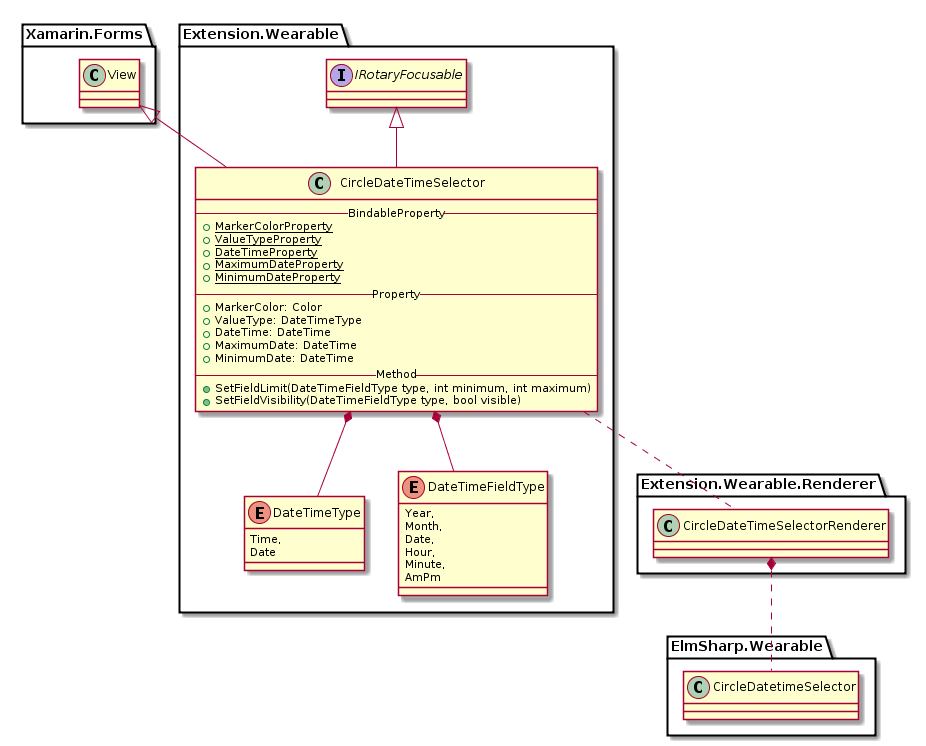
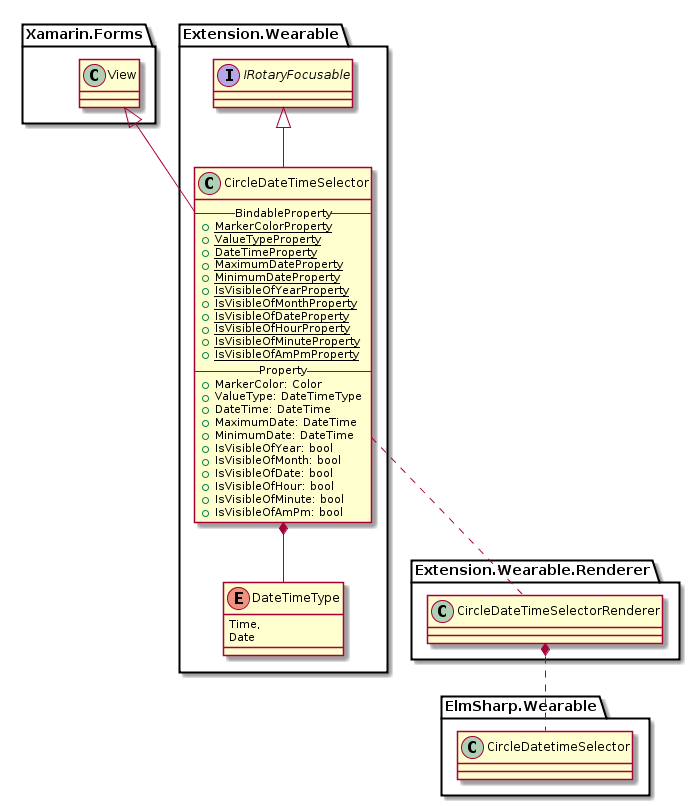
[CircleDateTimeSelector] add SetFieldVisibility() and remove SetFieldLimit() (#72)

diff --git a/WearableUIGallery/WearableUIGallery/WearableUIGallery/TC/TCCirclePage.xaml b/WearableUIGallery/WearableUIGallery/WearableUIGallery/TC/TCCirclePage.xaml
@@ -17,7 +17,8 @@
             VerticalOptions="FillAndExpand">
             <w:CircleDateTimeSelector
                 x:Name="DateSelector"
-                MaximumDate="1/1/2018"
+                IsVisibleOfDate="False"
+                MaximumDate="1/1/2020"
                 MinimumDate="1/12/2015"
                 ValueType="Date" />
         </StackLayout>

diff --git a/WearableUIGallery/WearableUIGallery/WearableUIGallery/TC/TCCircleStepper2.xaml b/WearableUIGallery/WearableUIGallery/WearableUIGallery/TC/TCCircleStepper2.xaml
@@ -30,7 +30,6 @@
             <Label
                 AbsoluteLayout.LayoutBounds="0.8, 0.5, 0.25, 0.25"
                 AbsoluteLayout.LayoutFlags="All"
-                BackgroundColor="White"
                 HorizontalOptions="End"
                 Text="T3"
                 TextColor="Black" />

diff --git a/Xamarin.Forms.CircularUI.Tizen/CircleDateTimeSelectorRenderer.cs b/Xamarin.Forms.CircularUI.Tizen/CircleDateTimeSelectorRenderer.cs
@@ -6,13 +6,15 @@ using System.Text;
 using Xamarin.Forms.CircularUI;
 using Xamarin.Forms.Platform.Tizen;
 using ElmSharp;
+using EDateTimeFieldType = ElmSharp.DateTimeFieldType;
+using ECircleDateTimeSelector = ElmSharp.Wearable.CircleDateTimeSelector;
 
 [assembly: ExportRenderer(typeof(Xamarin.Forms.CircularUI.CircleDateTimeSelector), typeof(Xamarin.Forms.CircularUI.Tizen.CircleDateTimeSelectorRenderer))]
 
 
 namespace Xamarin.Forms.CircularUI.Tizen
 {
-    public class CircleDateTimeSelectorRenderer : ViewRenderer<CircleDateTimeSelector, ElmSharp.Wearable.CircleDateTimeSelector>
+    public class CircleDateTimeSelectorRenderer : ViewRenderer<CircleDateTimeSelector, ECircleDateTimeSelector>
     {
         public CircleDateTimeSelectorRenderer()
         {
@@ -21,6 +23,13 @@ namespace Xamarin.Forms.CircularUI.Tizen
             RegisterPropertyHandler(CircleDateTimeSelector.DateTimeProperty, UpdateDateTime);
             RegisterPropertyHandler(CircleDateTimeSelector.MaximumDateProperty, UpdateMaximum);
             RegisterPropertyHandler(CircleDateTimeSelector.MinimumDateProperty, UpdateMinimum);
+
+            RegisterPropertyHandler(CircleDateTimeSelector.IsVisibleOfYearProperty, UpdateFieldVisibilityOfYear);
+            RegisterPropertyHandler(CircleDateTimeSelector.IsVisibleOfMonthProperty, UpdateFieldVisibilityOfMonth);
+            RegisterPropertyHandler(CircleDateTimeSelector.IsVisibleOfDateProperty, UpdateFieldVisibilityOfDate);
+            RegisterPropertyHandler(CircleDateTimeSelector.IsVisibleOfHourProperty, UpdateFieldVisibilityOfHour);
+            RegisterPropertyHandler(CircleDateTimeSelector.IsVisibleOfMinuteProperty, UpdateFieldVisibilityOfMinute);
+            RegisterPropertyHandler(CircleDateTimeSelector.IsVisibleOfAmPmProperty, UpdateFieldVisibilityOfAmPm);
         }
 
         protected override void OnElementChanged(ElementChangedEventArgs<CircleDateTimeSelector> e)
@@ -30,7 +39,7 @@ namespace Xamarin.Forms.CircularUI.Tizen
                 var surface = this.GetSurface();
                 if (null != surface)
                 {
-                    SetNativeControl(new ElmSharp.Wearable.CircleDateTimeSelector(Xamarin.Forms.Platform.Tizen.Forms.NativeParent, surface));
+                    SetNativeControl(new ECircleDateTimeSelector(Xamarin.Forms.Platform.Tizen.Forms.NativeParent, surface));
                     Control.DateTimeChanged += OnDateTimeChanged;
                 }
                 else
@@ -51,7 +60,7 @@ namespace Xamarin.Forms.CircularUI.Tizen
             return new ElmSharp.Size(300, 290);
         }
 
-        void UpdateMinimum(bool initialize)
+        void UpdateMinimum()
         {
             if (null != Control && null != Element)
             {
@@ -59,7 +68,7 @@ namespace Xamarin.Forms.CircularUI.Tizen
             }
         }
 
-        void UpdateMaximum(bool initialize)
+        void UpdateMaximum()
         {
             if (null != Control && null != Element)
             {
@@ -67,7 +76,7 @@ namespace Xamarin.Forms.CircularUI.Tizen
             }
         }
 
-        void UpdateDateTime(bool initialize)
+        void UpdateDateTime()
         {
             if (null != Control && null != Element && Element.DateTime != Control.DateTime)
             {
@@ -75,7 +84,7 @@ namespace Xamarin.Forms.CircularUI.Tizen
             }
         }
 
-        void UpdateValueType(bool initializej)
+        void UpdateValueType()
         {
             if (null != Control && null != Element)
             {
@@ -91,7 +100,7 @@ namespace Xamarin.Forms.CircularUI.Tizen
             }
         }
 
-        void UpdateMarkerColor(bool initialize)
+        void UpdateMarkerColor()
         {
             if (null != Control && null != Element && Element.MarkerColor != Color.Default)
             {
@@ -104,6 +113,54 @@ namespace Xamarin.Forms.CircularUI.Tizen
             if (null != Control && null != Element)
             {
                 Element.DateTime = Control.DateTime;
+            }
+        }
+
+        void UpdateFieldVisibilityOfYear()
+        {
+            if (null != Control && null != Element)
+            {
+                Control.SetFieldVisible(EDateTimeFieldType.Year, Element.IsVisibleOfYear);
+            }
+        }
+
+        void UpdateFieldVisibilityOfMonth()
+        {
+            if (null != Control && null != Element)
+            {
+                Control.SetFieldVisible(EDateTimeFieldType.Month, Element.IsVisibleOfMonth);
+            }
+        }
+
+        void UpdateFieldVisibilityOfDate()
+        {
+            if (null != Control && null != Element)
+            {
+                Control.SetFieldVisible(EDateTimeFieldType.Date, Element.IsVisibleOfDate);
+            }
+        }
+
+        void UpdateFieldVisibilityOfHour()
+        {
+            if (null != Control && null != Element)
+            {
+                Control.SetFieldVisible(EDateTimeFieldType.Hour, Element.IsVisibleOfHour);
+            }
+        }
+
+        void UpdateFieldVisibilityOfMinute()
+        {
+            if (null != Control && null != Element)
+            {
+                Control.SetFieldVisible(EDateTimeFieldType.Minute, Element.IsVisibleOfMinute);
+            }
+        }
+
+        void UpdateFieldVisibilityOfAmPm()
+        {
+            if (null != Control && null != Element)
+            {
+                Control.SetFieldVisible(EDateTimeFieldType.AmPm, Element.IsVisibleOfAmPm);
             }
         }
     }

diff --git a/Xamarin.Forms.CircularUI/CircleDateTimeSelector.cs b/Xamarin.Forms.CircularUI/CircleDateTimeSelector.cs
@@ -37,6 +37,37 @@ namespace Xamarin.Forms.CircularUI
         public static readonly BindableProperty MinimumDateProperty = BindableProperty.Create(nameof(MinimumDate), typeof(DateTime), typeof(CircleDateTimeSelector), new DateTime(1900, 1, 1));
 
         /// <summary>
+        /// BindableProperty. Identifies the IsVisibleOfYear bindable property.
+        /// </summary>
+        /// <since_tizen> 4 </since_tizen>
+        public static BindableProperty IsVisibleOfYearProperty = BindableProperty.Create(nameof(IsVisibleOfYear), typeof(bool), typeof(CircleDateTimeSelector), true);
+        /// <summary>
+        /// BindableProperty. Identifies the IsVisibleOfMonth bindable property.
+        /// </summary>
+        /// <since_tizen> 4 </since_tizen>
+        public static BindableProperty IsVisibleOfMonthProperty = BindableProperty.Create(nameof(IsVisibleOfMonth), typeof(bool), typeof(CircleDateTimeSelector), true);
+        /// <summary>
+        /// BindableProperty. Identifies the IsVisibleOfDate bindable property.
+        /// </summary>
+        /// <since_tizen> 4 </since_tizen>
+        public static BindableProperty IsVisibleOfDateProperty = BindableProperty.Create(nameof(IsVisibleOfDate), typeof(bool), typeof(CircleDateTimeSelector), true);
+        /// <summary>
+        /// BindableProperty. Identifies the IsVisibleOfHour bindable property.
+        /// </summary>
+        /// <since_tizen> 4 </since_tizen>
+        public static BindableProperty IsVisibleOfHourProperty = BindableProperty.Create(nameof(IsVisibleOfHour), typeof(bool), typeof(CircleDateTimeSelector), true);
+        /// <summary>
+        /// BindableProperty. Identifies the IsVisibleOfMinute bindable property.
+        /// </summary>
+        /// <since_tizen> 4 </since_tizen>
+        public static BindableProperty IsVisibleOfMinuteProperty = BindableProperty.Create(nameof(IsVisibleOfMinute), typeof(bool), typeof(CircleDateTimeSelector), true);
+        /// <summary>
+        /// BindableProperty. Identifies the IsVisibleOfAmPm bindable property.
+        /// </summary>
+        /// <since_tizen> 4 </since_tizen>
+        public static BindableProperty IsVisibleOfAmPmProperty = BindableProperty.Create(nameof(IsVisibleOfAmPm), typeof(bool), typeof(CircleDateTimeSelector), true);
+
+        /// <summary>
         /// Gets or sets Marker color
         /// </summary>
         /// <since_tizen> 4 </since_tizen>
@@ -61,5 +92,60 @@ namespace Xamarin.Forms.CircularUI
         /// </summary>
         /// <since_tizen> 4 </since_tizen>
         public DateTime MinimumDate { get => (DateTime)GetValue(MinimumDateProperty); set => SetValue(MinimumDateProperty, value); }
+
+        /// <summary>
+        /// Gets or sets a boolean value that indicates whether the year field type is visible.
+        /// </summary>
+        /// <since_tizen> 4 </since_tizen>
+        public bool IsVisibleOfYear
+        {
+            get => (bool)GetValue(IsVisibleOfYearProperty);
+            set => SetValue(IsVisibleOfYearProperty, value);
+        }
+        /// <summary>
+        /// Gets or sets a boolean value that indicates whether the month field type is visible.
+        /// </summary>
+        /// <since_tizen> 4 </since_tizen>
+        public bool IsVisibleOfMonth
+        {
+            get => (bool)GetValue(IsVisibleOfMonthProperty);
+            set => SetValue(IsVisibleOfMonthProperty, value);
+        }
+        /// <summary>
+        /// Gets or sets a boolean value that indicates whether the date field type is visible.
+        /// </summary>
+        /// <since_tizen> 4 </since_tizen>
+        public bool IsVisibleOfDate
+        {
+            get => (bool)GetValue(IsVisibleOfDateProperty);
+            set => SetValue(IsVisibleOfDateProperty, value);
+        }
+        /// <summary>
+        /// Gets or sets a boolean value that indicates whether the hour field type is visible.
+        /// </summary>
+        /// <since_tizen> 4 </since_tizen>
+        public bool IsVisibleOfHour
+        {
+            get => (bool)GetValue(IsVisibleOfHourProperty);
+            set => SetValue(IsVisibleOfHourProperty, value);
+        }
+        /// <summary>
+        /// Gets or sets a boolean value that indicates whether the minute field type is visible.
+        /// </summary>
+        /// <since_tizen> 4 </since_tizen>
+        public bool IsVisibleOfMinute
+        {
+            get => (bool)GetValue(IsVisibleOfMinuteProperty);
+            set => SetValue(IsVisibleOfMinuteProperty, value);
+        }
+        /// <summary>
+        /// Gets or sets a boolean value that indicates whether the AmPm field type is visible.
+        /// </summary>
+        /// <since_tizen> 4 </since_tizen>
+        public bool IsVisibleOfAmPm
+        {
+            get => (bool)GetValue(IsVisibleOfAmPmProperty);
+            set => SetValue(IsVisibleOfAmPmProperty, value);
+        }
     }
 }

diff --git a/WearableUIGallery/WearableUIGallery/WearableUIGallery/TC/TCCirclePage.xaml.cs b/WearableUIGallery/WearableUIGallery/WearableUIGallery/TC/TCCirclePage.xaml.cs
@@ -5,16 +5,17 @@ using System.Text;
 using System.Threading.Tasks;
 
 using Xamarin.Forms;
+using Xamarin.Forms.CircularUI;
 using Xamarin.Forms.Xaml;
 
 namespace WearableUIGallery.TC
 {
-	[XamlCompilation(XamlCompilationOptions.Compile)]
-	public partial class TCCirclePage : Xamarin.Forms.CircularUI.CirclePage
-	{
-		public TCCirclePage ()
-		{
-			InitializeComponent ();
-		}
-	}
+    [XamlCompilation(XamlCompilationOptions.Compile)]
+    public partial class TCCirclePage : Xamarin.Forms.CircularUI.CirclePage
+    {
+        public TCCirclePage()
+        {
+            InitializeComponent();
+        }
+    }
 }

diff --git a/doc/design/README.onepage.md b/doc/design/README.onepage.md
@@ -92,31 +92,30 @@ CircleDatePicker와 `CircleTimePicker`의 Class Diagram은 아래와 같다.
      public static readonly BindableProperty DateTimeProperty;
      public static readonly BindableProperty MaximumDateProperty;
      public static readonly BindableProperty MinimumDateProperty;
+     public static readonly BindableProperty IsVisibleOfYearProperty;
+     public static readonly BindableProperty IsVisibleOfMonthProperty;
+     public static readonly BindableProperty IsVisibleOfDateProperty;
+     public static readonly BindableProperty IsVisibleOfHourProperty;
+     public static readonly BindableProperty IsVisibleOfMinuteProperty;
+     public static readonly BindableProperty IsVisibleOfAmPmProperty;
 
      public Color MarkerColor { get; set; }
      public DateTimeType ValueType { get; set; }
      public DateTime DateTime { get; set; }
      public DateTime MaximumDate { get; set; }
      public DateTime MinimumDate { get; set; }
-
-     public void SetFieldLimit(DateTimeFieldType type, int minimum, int maximum);
-     public void SetFieldVisibility(DateTimeFieldType type, bool visible);
+     public bool IsVisibleOfYear { get; set; }
+     public bool IsVisibleOfMonth { get; set; }
+     public bool IsVisibleOfDate { get; set; }
+     public bool IsVisibleOfHour { get; set; }
+     public bool IsVisibleOfMinute { get; set; }
+     public bool IsVisibleOfAmPm { get; set; }
  }
 
  public enum DateTimeType
  {
      Time,
      Date
- }
-
- public enum DateTimeFieldType
- {
-     Year,
-     Month,
-     Date,
-     Hour,
-     Minute,
-     AmPm
  }
 
  ```
@@ -130,6 +129,12 @@ CircleDatePicker와 `CircleTimePicker`의 Class Diagram은 아래와 같다.
 * DateTime : 날짜/시간을 가져오거나, 설정한다.
 * MaximumDate : ValueType이 Date일때, 최대 날짜를 가져오거나 설정한다.
 * MimimumDate : ValueType이 Date일때, 최소 날짜를 가져오거나 설정한다.
+* IsVisibleOfYear : 년도항목이 보여질지 여부를 설정한다.
+* IsVisibleOfMonth : 날짜의 월항목이 보여질지 여부를 설정한다.
+* IsVisibleOfDate : 날짜의 일자항목이 보여질지 여부를 설정한다.
+* IsVisibleOfHour : 시간의 시항목이 보여질지 여부를 설정한다.
+* IsVisibleOfMinute : 시간의 분항목이 보여질지 여부를 설정한다.
+* IsVisibleOfAmPm : 시간의 AM/PM항목이 보여질지 여부를 설정한다.
 
 각 Picker는 다음과 같은 Scene Graph를 가진다.
 

diff --git a/doc/design/part02.CircleDateTimeSelector.md b/doc/design/part02.CircleDateTimeSelector.md
@@ -24,31 +24,30 @@ CircleDatePicker와 `CircleTimePicker`의 Class Diagram은 아래와 같다.
      public static readonly BindableProperty DateTimeProperty;
      public static readonly BindableProperty MaximumDateProperty;
      public static readonly BindableProperty MinimumDateProperty;
+     public static readonly BindableProperty IsVisibleOfYearProperty;
+     public static readonly BindableProperty IsVisibleOfMonthProperty;
+     public static readonly BindableProperty IsVisibleOfDateProperty;
+     public static readonly BindableProperty IsVisibleOfHourProperty;
+     public static readonly BindableProperty IsVisibleOfMinuteProperty;
+     public static readonly BindableProperty IsVisibleOfAmPmProperty;
 
      public Color MarkerColor { get; set; }
      public DateTimeType ValueType { get; set; }
      public DateTime DateTime { get; set; }
      public DateTime MaximumDate { get; set; }
      public DateTime MinimumDate { get; set; }
-
-     public void SetFieldLimit(DateTimeFieldType type, int minimum, int maximum);
-     public void SetFieldVisibility(DateTimeFieldType type, bool visible);
+     public bool IsVisibleOfYear { get; set; }
+     public bool IsVisibleOfMonth { get; set; }
+     public bool IsVisibleOfDate { get; set; }
+     public bool IsVisibleOfHour { get; set; }
+     public bool IsVisibleOfMinute { get; set; }
+     public bool IsVisibleOfAmPm { get; set; }
  }
 
  public enum DateTimeType
  {
      Time,
      Date
- }
-
- public enum DateTimeFieldType
- {
-     Year,
-     Month,
-     Date,
-     Hour,
-     Minute,
-     AmPm
  }
 
  ```
@@ -62,6 +61,12 @@ CircleDatePicker와 `CircleTimePicker`의 Class Diagram은 아래와 같다.
 * DateTime : 날짜/시간을 가져오거나, 설정한다.
 * MaximumDate : ValueType이 Date일때, 최대 날짜를 가져오거나 설정한다.
 * MimimumDate : ValueType이 Date일때, 최소 날짜를 가져오거나 설정한다.
+* IsVisibleOfYear : 년도항목이 보여질지 여부를 설정한다.
+* IsVisibleOfMonth : 날짜의 월항목이 보여질지 여부를 설정한다.
+* IsVisibleOfDate : 날짜의 일자항목이 보여질지 여부를 설정한다.
+* IsVisibleOfHour : 시간의 시항목이 보여질지 여부를 설정한다.
+* IsVisibleOfMinute : 시간의 분항목이 보여질지 여부를 설정한다.
+* IsVisibleOfAmPm : 시간의 AM/PM항목이 보여질지 여부를 설정한다.
 
 각 Picker는 다음과 같은 Scene Graph를 가진다.
 
